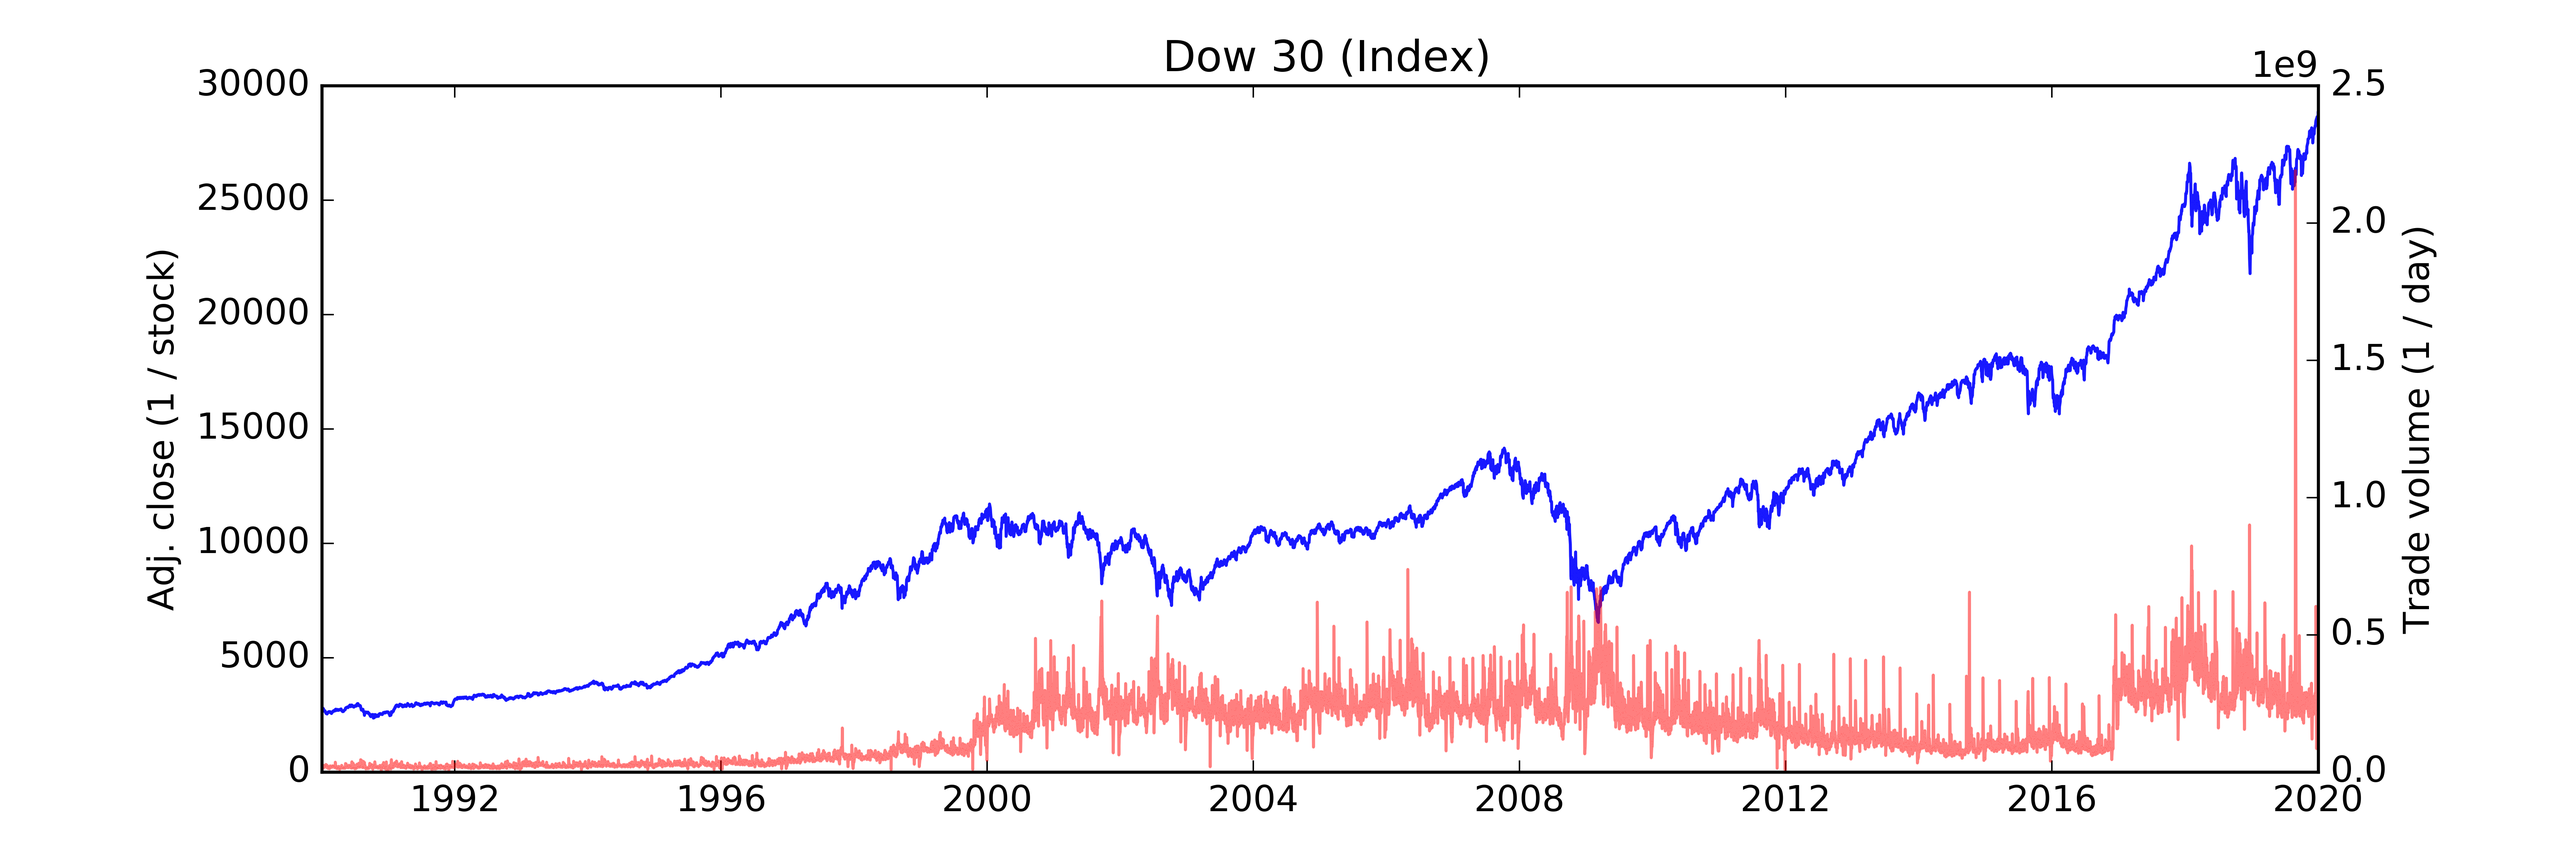
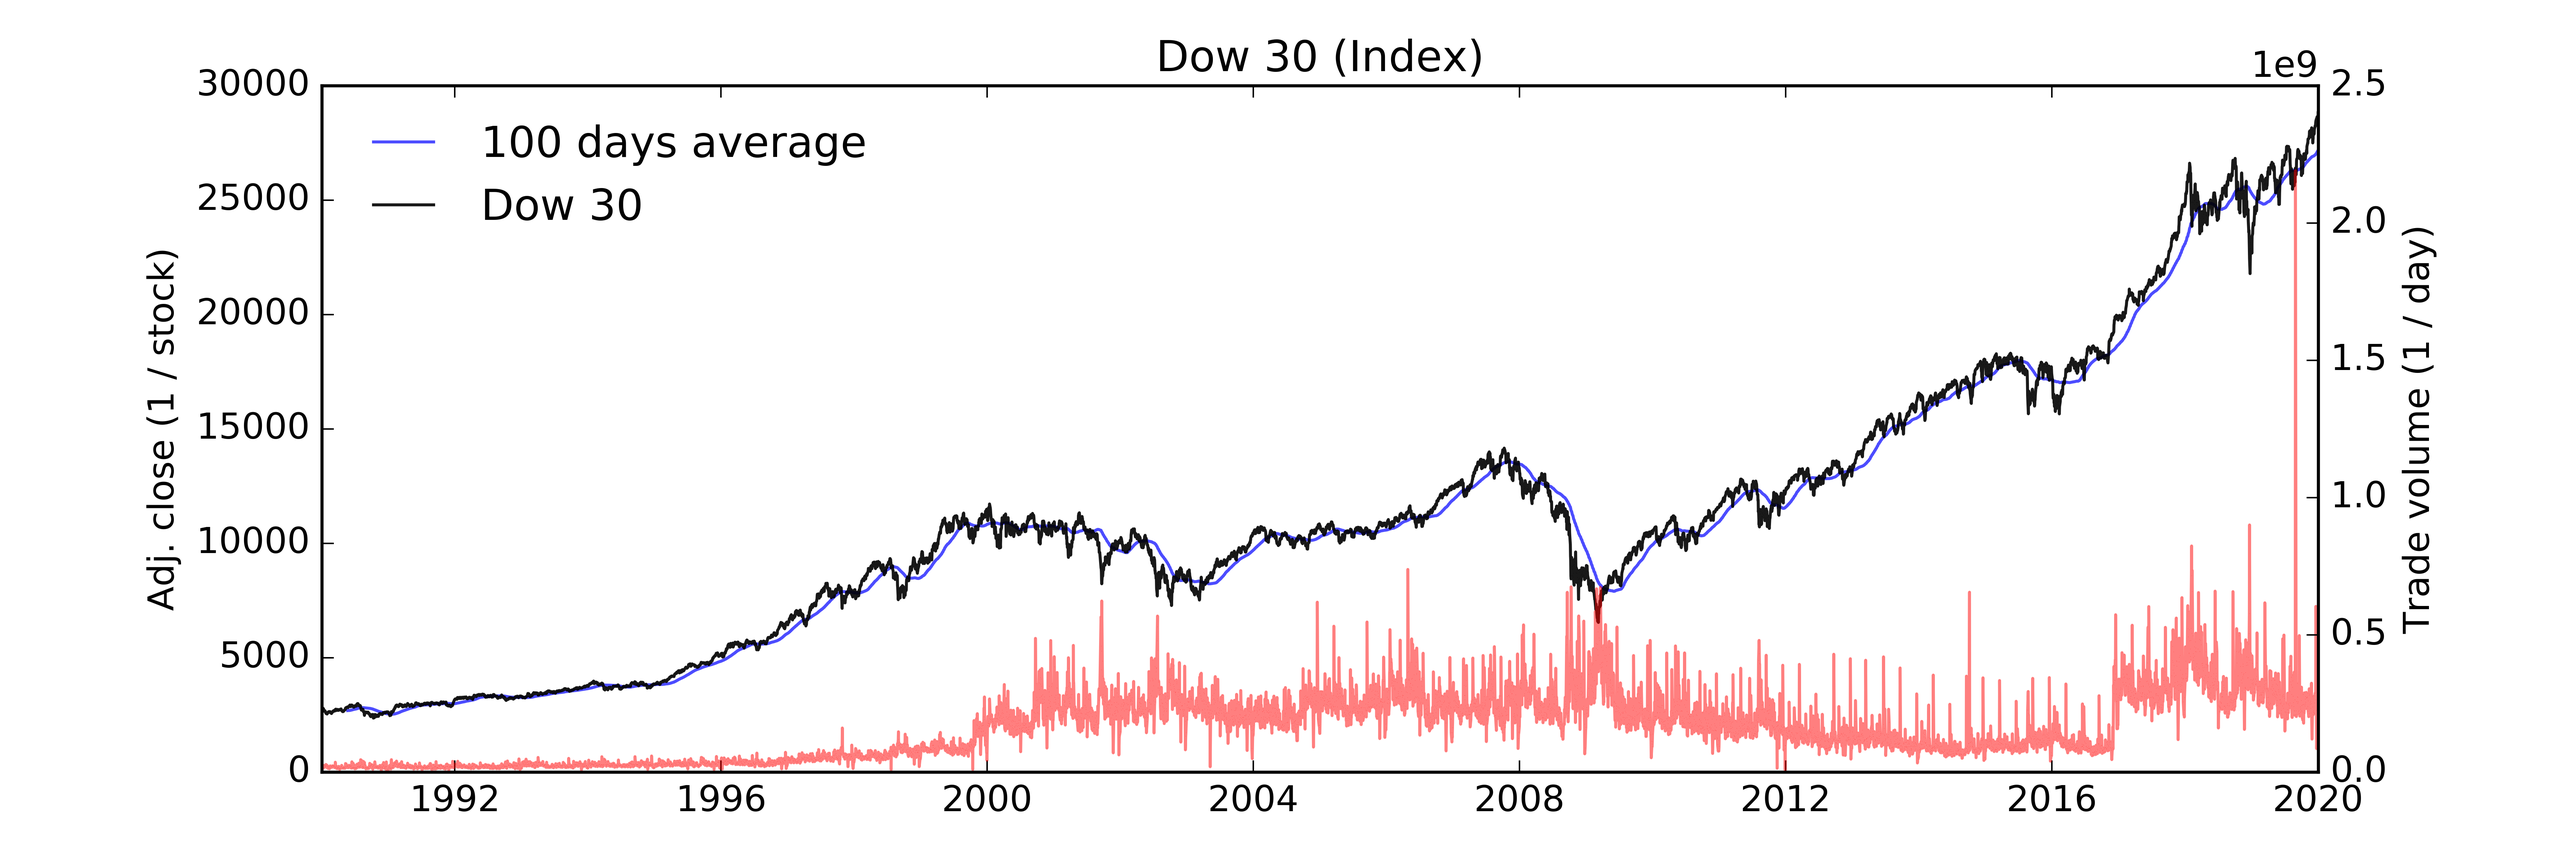
Added 100 days average to plot.

diff --git a/util.py b/util.py
@@ -197,7 +197,12 @@ class DataController:
         # Get security name
         security = db_session.query(Security).filter_by(symbol=symbol).one()
 
+        # Dataframe of security
         security_df = self.get_security_quotes_as_dataframe(symbol)
+
+        # Get rolling average of security
+        security_df["adj_close_30_days_average"] = security_df["adj_close"].rolling(window=30).mean()
+        security_df["adj_close_100_days_average"] = security_df["adj_close"].rolling(window=100).mean()
 
         if not security_df.empty:
             filename = savepath + symbol + ".png"
@@ -208,15 +213,21 @@ class DataController:
             x = security_df["Date"]
             y1 = security_df["adj_close"]
             y2 = security_df["Volume"]
+            #y3 = security_df["adj_close_30_days_average"]
+            y4 = security_df["adj_close_100_days_average"]
 
             plt.title(security.name + " (" + security.type + ")")
 
             plt.ylabel("Adj. close (1 / stock)")
             ax2 = ax1.twinx()
-            ax1.plot(x, y1, ',-', alpha=0.9)
+            #ax1.plot(x, y3, '-', alpha=0.7, color=(0,1,0))
+            ax1.plot(x, y4, '-', alpha=0.7, color=(0, 0, 1), label="100 days average")
+            ax1.plot(x, y1, ',-', alpha=0.9, color=(0, 0, 0), label=security.name)
 
-            ax2.plot(x, y2, ',-', color=(1, 0, 0), alpha=0.5)
+            ax2.plot(x, y2, ',-', color=(1, 0, 0), alpha=0.7)
             plt.ylabel("Trade volume (1 / day)")
+
+            ax1.legend(loc = 'best', frameon=False)
 
             # Create folder if not exists
             if not os.path.exists(os.path.dirname(filename)):
